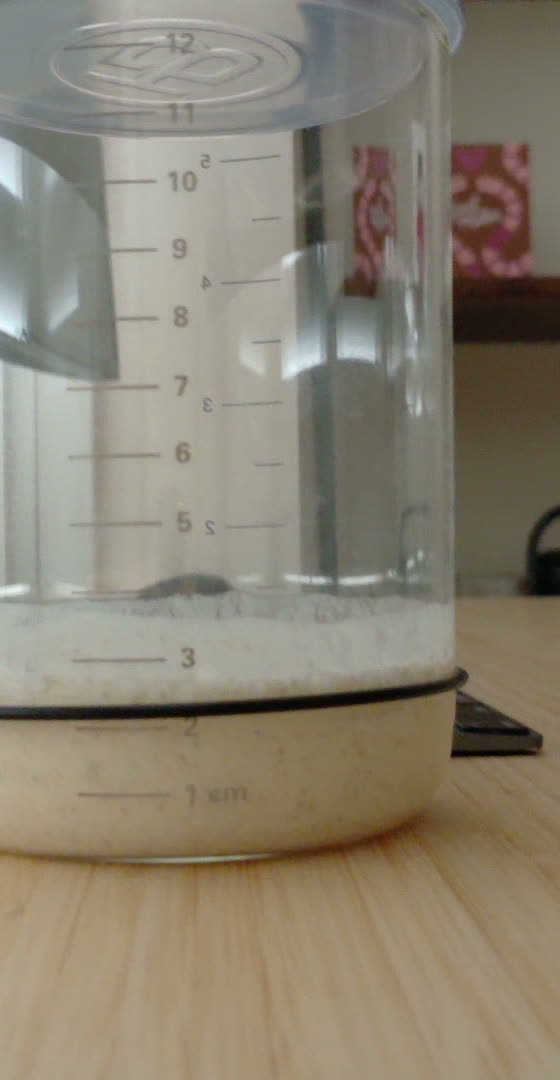
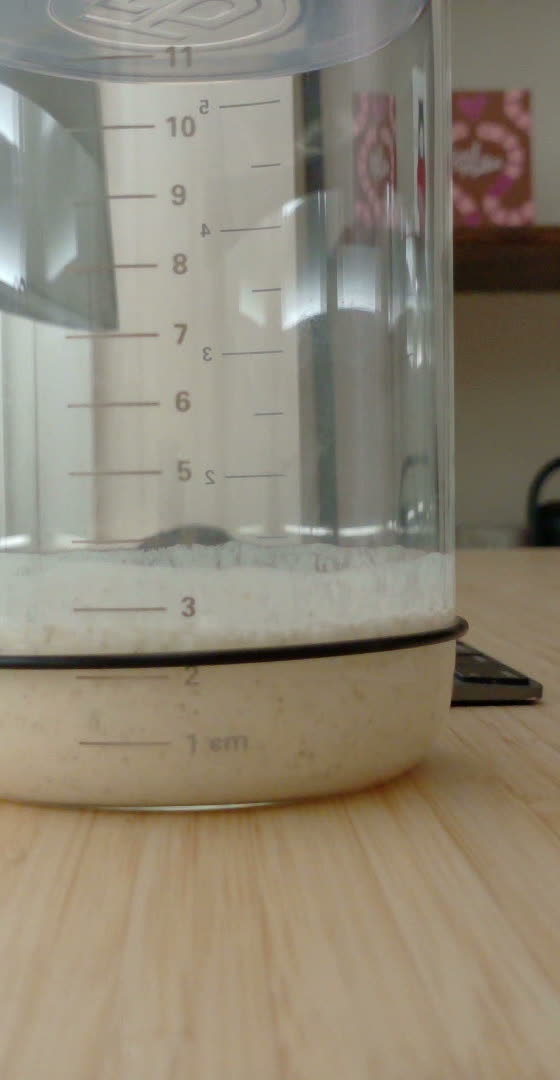
chore: record starter reading

diff --git a/public/index.html b/public/index.html
@@ -2,11 +2,11 @@
 <html lang="en"><head><meta charset="utf-8"><meta name="viewport" content="width=device-width,initial-scale=1"><title>Simon’s Sourdough Starter Watch</title>
 <link href="https://fonts.googleapis.com/css2?family=IBM+Plex+Sans:wght@400;500;600;700;800&family=JetBrains+Mono:wght@400;500;600;700&family=Fraunces:opsz,wght@9..144,650;9..144,800&display=swap" rel="stylesheet">
 <link rel="stylesheet" href="styles.css"></head><body><div class="wrap"><header class="topbar"><div class="brand"><div class="logo" aria-hidden="true"><div class="loafLogo" role="img" aria-label="cartoon bread loaf logo"><span class="loafBody"></span><span class="crust-mark crust-mark-a"></span><span class="crust-mark crust-mark-b"></span><span class="crust-mark crust-mark-c"></span><span class="loafSmile"></span></div></div><div>Simon’s Sourdough Starter Watch</div></div><div class="navpills"><span class="pill dark">FERMENTATION LAB · STORY MODE</span><span class="pill orange">Observed by <a class="hermesLink" href="https://hermes-agent.nousresearch.com/" target="_blank" rel="noopener noreferrer">Hermes</a></span></div></header>
-<main><section class="hero"><div class="panel heroCopy"><span class="tag">STARTER-001 · PUBLIC OBSERVATORY</span><h1>One Jar.<br>One Webcam.<br>Many Bubbles.</h1><p class="sub">A living fermentation experiment watched by a webcam and narrated by Hermes. The agent checks the starter, estimates its rise, writes notes, and pings Telegram when the jar does something worth noticing.</p><div class="storyline"><span class="storylineLabel">Current status</span><b>Today’s mood: ambitious.</b> Hermes visual read: surface sits just above 3 cm and below 4 cm; glare and old streaks ignored. Hermes has armed peak watch, which is less dramatic than it sounds — but only slightly.</div><div class="metrics"><div class="metric"><span>Rise</span><b>+50%</b></div><div class="metric"><span>Stage</span><b>Rising</b><small>starter activity</small></div><div class="metric"><span>Read confidence</span><b>65%</b><small>visual read certainty</small></div><div class="metric"><span>Watch cadence</span><b>10m</b><small>checks adjust automatically</small></div></div></div><div class="panel photo snapshotCard"><div class="snapshotViewport"><img class="snapshotBackdrop" src="photos/starter.jpg" alt="" aria-hidden="true"><img class="starterSnapshot" src="photos/starter.jpg" alt="latest webcam view of sourdough starter"><div class="measurementOverlay" aria-label="visual guide to the latest starter measurement">
-    <span class="measureLine currentLine"><b>Current ~3.3 cm</b></span>
+<main><section class="hero"><div class="panel heroCopy"><span class="tag">STARTER-001 · PUBLIC OBSERVATORY</span><h1>One Jar.<br>One Webcam.<br>Many Bubbles.</h1><p class="sub">A living fermentation experiment watched by a webcam and narrated by Hermes. The agent checks the starter, estimates its rise, writes notes, and pings Telegram when the jar does something worth noticing.</p><div class="storyline"><span class="storylineLabel">Current status</span><b>Today’s mood: ambitious.</b> Hermes visual read: current active surface appears slightly above the 3 cm mark, with bubbles visible; glare, jar curvature, residue, and old streaks ignored. Hermes has armed peak watch, which is less dramatic than it sounds — but only slightly.</div><div class="metrics"><div class="metric"><span>Rise</span><b>+55%</b></div><div class="metric"><span>Stage</span><b>Rising</b><small>starter activity</small></div><div class="metric"><span>Read confidence</span><b>72%</b><small>visual read certainty</small></div><div class="metric"><span>Watch cadence</span><b>10m</b><small>checks adjust automatically</small></div></div></div><div class="panel photo snapshotCard"><div class="snapshotViewport"><img class="snapshotBackdrop" src="photos/starter.jpg" alt="" aria-hidden="true"><img class="starterSnapshot" src="photos/starter.jpg" alt="latest webcam view of sourdough starter"><div class="measurementOverlay" aria-label="visual guide to the latest starter measurement">
+    <span class="measureLine currentLine"><b>Current ~3.4 cm</b></span>
     <span class="measureLine baselineLine"><b>Baseline 2.2 cm</b></span>
-  </div></div><div class="photoOverlay"><div><strong>Latest webcam frame</strong><small>Actual camera view used for estimation</small></div><div><small>17:26 · webcam</small></div></div><div class="measurementSummary"><strong>Measured from the photo</strong><span>Baseline 2.2 cm → current ~3.3 cm → +50% rise</span></div><div class="photoInsight"><div><strong>Latest reading</strong><b>+50% rise</b></div><div><strong>What to look for</strong><span>bubbles, the height line, and whether the top is domed or sinking</span></div></div></div></section>
-<section class="grid readingsGrid"><div class="panel curvePanel"><div class="sectionHead"><h2>Today’s rise curve</h2><span class="pill">actual readings vs. baseline</span></div><div class="chartFrame"><svg class="chart chartDesktop" data-chart="actual-observations" viewBox="0 0 760 270" preserveAspectRatio="xMidYMid meet" aria-label="starter rise over time"><defs><linearGradient id="riseFill2" x1="0" y1="0" x2="0" y2="1"><stop offset="0%" stop-color="#f54e00" stop-opacity=".20"/><stop offset="100%" stop-color="#f54e00" stop-opacity="0"/></linearGradient></defs><g class="axis"><path d="M54 28.0H704M54 82.0H704M54 136.0H704M54 190.0H704M54 244.0H704"/><path d="M54.0 28V244M216.5 28V244M379.0 28V244M541.5 28V244M704.0 28V244"/></g><g class="ylabel"><text x="8" y="34">100%</text><text x="8" y="88">75%</text><text x="8" y="142">50%</text><text x="8" y="196">25%</text><text x="16" y="248">0%</text></g><path class="area" d="M54.0 244.0 L79.3 166.2 L94.7 146.8 L184.6 125.2 L271.6 125.2 L358.6 136.0 L445.7 136.0 L534.1 136.0 L677.3 136.0 L704.0 136.0 L704.0 244 L54.0 244 Z"/><path class="line" d="M54.0 244.0 L79.3 166.2 L94.7 146.8 L184.6 125.2 L271.6 125.2 L358.6 136.0 L445.7 136.0 L534.1 136.0 L677.3 136.0 L704.0 136.0"/><g class="dots"><circle class="chartDot" data-rise="0" aria-label="09:43: +0% rise" cx="54.0" cy="244.0" r="5"/><circle class="chartDot" data-rise="36" aria-label="10:01: +36% rise" cx="79.3" cy="166.2" r="5"/><circle class="chartDot" data-rise="45" aria-label="10:12: +45% rise" cx="94.7" cy="146.8" r="5"/><circle class="chartDot" data-rise="55" aria-label="11:16: +55% rise" cx="184.6" cy="125.2" r="5"/><circle class="chartDot" data-rise="55" aria-label="12:18: +55% rise" cx="271.6" cy="125.2" r="5"/><circle class="chartDot" data-rise="50" aria-label="13:20: +50% rise" cx="358.6" cy="136.0" r="5"/><circle class="chartDot" data-rise="50" aria-label="14:22: +50% rise" cx="445.7" cy="136.0" r="5"/><circle class="chartDot" data-rise="50" aria-label="15:25: +50% rise" cx="534.1" cy="136.0" r="5"/><circle class="chartDot" data-rise="50" aria-label="17:07: +50% rise" cx="677.3" cy="136.0" r="5"/><circle class="chartDot" data-rise="50" aria-label="17:26: +50% rise" cx="704.0" cy="136.0" r="7"/></g><g class="xlabel"><text text-anchor="start" x="54.0" y="258">09:43</text><text text-anchor="middle" x="358.6" y="258">13:20</text><text text-anchor="end" x="704.0" y="258">17:26</text></g></svg><svg class="chart chartMobile" data-chart="actual-observations" viewBox="0 0 390 330" preserveAspectRatio="xMidYMid meet" aria-label="starter rise over time"><defs><linearGradient id="riseFill2" x1="0" y1="0" x2="0" y2="1"><stop offset="0%" stop-color="#f54e00" stop-opacity=".20"/><stop offset="100%" stop-color="#f54e00" stop-opacity="0"/></linearGradient></defs><g class="axis"><path d="M48 34.0H350M48 97.0H350M48 160.0H350M48 223.0H350M48 286.0H350"/><path d="M48.0 34V286M123.5 34V286M199.0 34V286M274.5 34V286M350.0 34V286"/></g><g class="ylabel"><text x="4" y="40">100%</text><text x="4" y="103">75%</text><text x="4" y="166">50%</text><text x="4" y="229">25%</text><text x="12" y="290">0%</text></g><path class="area" d="M48.0 286.0 L59.7 195.3 L66.9 172.6 L108.7 147.4 L149.1 147.4 L189.5 160.0 L230.0 160.0 L271.1 160.0 L337.6 160.0 L350.0 160.0 L350.0 286 L48.0 286 Z"/><path class="line" d="M48.0 286.0 L59.7 195.3 L66.9 172.6 L108.7 147.4 L149.1 147.4 L189.5 160.0 L230.0 160.0 L271.1 160.0 L337.6 160.0 L350.0 160.0"/><g class="dots"><circle class="chartDot" data-rise="0" aria-label="09:43: +0% rise" cx="48.0" cy="286.0" r="5"/><circle class="chartDot" data-rise="36" aria-label="10:01: +36% rise" cx="59.7" cy="195.3" r="5"/><circle class="chartDot" data-rise="45" aria-label="10:12: +45% rise" cx="66.9" cy="172.6" r="5"/><circle class="chartDot" data-rise="55" aria-label="11:16: +55% rise" cx="108.7" cy="147.4" r="5"/><circle class="chartDot" data-rise="55" aria-label="12:18: +55% rise" cx="149.1" cy="147.4" r="5"/><circle class="chartDot" data-rise="50" aria-label="13:20: +50% rise" cx="189.5" cy="160.0" r="5"/><circle class="chartDot" data-rise="50" aria-label="14:22: +50% rise" cx="230.0" cy="160.0" r="5"/><circle class="chartDot" data-rise="50" aria-label="15:25: +50% rise" cx="271.1" cy="160.0" r="5"/><circle class="chartDot" data-rise="50" aria-label="17:07: +50% rise" cx="337.6" cy="160.0" r="5"/><circle class="chartDot" data-rise="50" aria-label="17:26: +50% rise" cx="350.0" cy="160.0" r="7"/></g><g class="xlabel"><text text-anchor="start" x="48.0" y="318">09:43</text><text text-anchor="middle" x="189.5" y="318">13:20</text><text text-anchor="end" x="350.0" y="318">17:26</text></g></svg></div><div class="latestReadingCallout"><strong>Now: +50% at 17:26</strong><span>latest measured point from the webcam sequence</span></div><div class="curveAnnotations"><div class="annotationHead"><h3>Key moments</h3><span>notes from today’s rise</span></div><div class="annotationList">
+  </div></div><div class="photoOverlay"><div><strong>Latest webcam frame</strong><small>Actual camera view used for estimation</small></div><div><small>17:41 · webcam</small></div></div><div class="measurementSummary"><strong>Measured from the photo</strong><span>Baseline 2.2 cm → current ~3.4 cm → +55% rise</span></div><div class="photoInsight"><div><strong>Latest reading</strong><b>+55% rise</b></div><div><strong>What to look for</strong><span>bubbles, the height line, and whether the top is domed or sinking</span></div></div></div></section>
+<section class="grid readingsGrid"><div class="panel curvePanel"><div class="sectionHead"><h2>Today’s rise curve</h2><span class="pill">actual readings vs. baseline</span></div><div class="chartFrame"><svg class="chart chartDesktop" data-chart="actual-observations" viewBox="0 0 760 270" preserveAspectRatio="xMidYMid meet" aria-label="starter rise over time"><defs><linearGradient id="riseFill2" x1="0" y1="0" x2="0" y2="1"><stop offset="0%" stop-color="#f54e00" stop-opacity=".20"/><stop offset="100%" stop-color="#f54e00" stop-opacity="0"/></linearGradient></defs><g class="axis"><path d="M54 28.0H704M54 82.0H704M54 136.0H704M54 190.0H704M54 244.0H704"/><path d="M54.0 28V244M216.5 28V244M379.0 28V244M541.5 28V244M704.0 28V244"/></g><g class="ylabel"><text x="8" y="34">100%</text><text x="8" y="88">75%</text><text x="8" y="142">50%</text><text x="8" y="196">25%</text><text x="16" y="248">0%</text></g><path class="area" d="M54.0 244.0 L78.5 166.2 L93.4 146.8 L180.5 125.2 L264.8 125.2 L349.1 136.0 L433.4 136.0 L519.1 136.0 L657.8 136.0 L683.6 136.0 L704.0 125.2 L704.0 244 L54.0 244 Z"/><path class="line" d="M54.0 244.0 L78.5 166.2 L93.4 146.8 L180.5 125.2 L264.8 125.2 L349.1 136.0 L433.4 136.0 L519.1 136.0 L657.8 136.0 L683.6 136.0 L704.0 125.2"/><g class="dots"><circle class="chartDot" data-rise="0" aria-label="09:43: +0% rise" cx="54.0" cy="244.0" r="5"/><circle class="chartDot" data-rise="36" aria-label="10:01: +36% rise" cx="78.5" cy="166.2" r="5"/><circle class="chartDot" data-rise="45" aria-label="10:12: +45% rise" cx="93.4" cy="146.8" r="5"/><circle class="chartDot" data-rise="55" aria-label="11:16: +55% rise" cx="180.5" cy="125.2" r="5"/><circle class="chartDot" data-rise="55" aria-label="12:18: +55% rise" cx="264.8" cy="125.2" r="5"/><circle class="chartDot" data-rise="50" aria-label="13:20: +50% rise" cx="349.1" cy="136.0" r="5"/><circle class="chartDot" data-rise="50" aria-label="14:22: +50% rise" cx="433.4" cy="136.0" r="5"/><circle class="chartDot" data-rise="50" aria-label="15:25: +50% rise" cx="519.1" cy="136.0" r="5"/><circle class="chartDot" data-rise="50" aria-label="17:07: +50% rise" cx="657.8" cy="136.0" r="5"/><circle class="chartDot" data-rise="50" aria-label="17:26: +50% rise" cx="683.6" cy="136.0" r="5"/><circle class="chartDot" data-rise="55" aria-label="17:41: +55% rise" cx="704.0" cy="125.2" r="7"/></g><g class="xlabel"><text text-anchor="start" x="54.0" y="258">09:43</text><text text-anchor="middle" x="349.1" y="258">13:20</text><text text-anchor="end" x="704.0" y="258">17:41</text></g></svg><svg class="chart chartMobile" data-chart="actual-observations" viewBox="0 0 390 330" preserveAspectRatio="xMidYMid meet" aria-label="starter rise over time"><defs><linearGradient id="riseFill2" x1="0" y1="0" x2="0" y2="1"><stop offset="0%" stop-color="#f54e00" stop-opacity=".20"/><stop offset="100%" stop-color="#f54e00" stop-opacity="0"/></linearGradient></defs><g class="axis"><path d="M48 34.0H350M48 97.0H350M48 160.0H350M48 223.0H350M48 286.0H350"/><path d="M48.0 34V286M123.5 34V286M199.0 34V286M274.5 34V286M350.0 34V286"/></g><g class="ylabel"><text x="4" y="40">100%</text><text x="4" y="103">75%</text><text x="4" y="166">50%</text><text x="4" y="229">25%</text><text x="12" y="290">0%</text></g><path class="area" d="M48.0 286.0 L59.4 195.3 L66.3 172.6 L106.8 147.4 L145.9 147.4 L185.1 160.0 L224.3 160.0 L264.1 160.0 L328.5 160.0 L340.5 160.0 L350.0 147.4 L350.0 286 L48.0 286 Z"/><path class="line" d="M48.0 286.0 L59.4 195.3 L66.3 172.6 L106.8 147.4 L145.9 147.4 L185.1 160.0 L224.3 160.0 L264.1 160.0 L328.5 160.0 L340.5 160.0 L350.0 147.4"/><g class="dots"><circle class="chartDot" data-rise="0" aria-label="09:43: +0% rise" cx="48.0" cy="286.0" r="5"/><circle class="chartDot" data-rise="36" aria-label="10:01: +36% rise" cx="59.4" cy="195.3" r="5"/><circle class="chartDot" data-rise="45" aria-label="10:12: +45% rise" cx="66.3" cy="172.6" r="5"/><circle class="chartDot" data-rise="55" aria-label="11:16: +55% rise" cx="106.8" cy="147.4" r="5"/><circle class="chartDot" data-rise="55" aria-label="12:18: +55% rise" cx="145.9" cy="147.4" r="5"/><circle class="chartDot" data-rise="50" aria-label="13:20: +50% rise" cx="185.1" cy="160.0" r="5"/><circle class="chartDot" data-rise="50" aria-label="14:22: +50% rise" cx="224.3" cy="160.0" r="5"/><circle class="chartDot" data-rise="50" aria-label="15:25: +50% rise" cx="264.1" cy="160.0" r="5"/><circle class="chartDot" data-rise="50" aria-label="17:07: +50% rise" cx="328.5" cy="160.0" r="5"/><circle class="chartDot" data-rise="50" aria-label="17:26: +50% rise" cx="340.5" cy="160.0" r="5"/><circle class="chartDot" data-rise="55" aria-label="17:41: +55% rise" cx="350.0" cy="147.4" r="7"/></g><g class="xlabel"><text text-anchor="start" x="48.0" y="318">09:43</text><text text-anchor="middle" x="185.1" y="318">13:20</text><text text-anchor="end" x="350.0" y="318">17:41</text></g></svg></div><div class="latestReadingCallout"><strong>Now: +55% at 17:41</strong><span>latest measured point from the webcam sequence</span></div><div class="curveAnnotations"><div class="annotationHead"><h3>Key moments</h3><span>notes from today’s rise</span></div><div class="annotationList">
     <article class="annotation" data-event-time="08:10">
       <time>08:10</time>
       <div><strong>Fed.</strong><p>Simon reset the baseline. The origin story begins again.</p></div>
